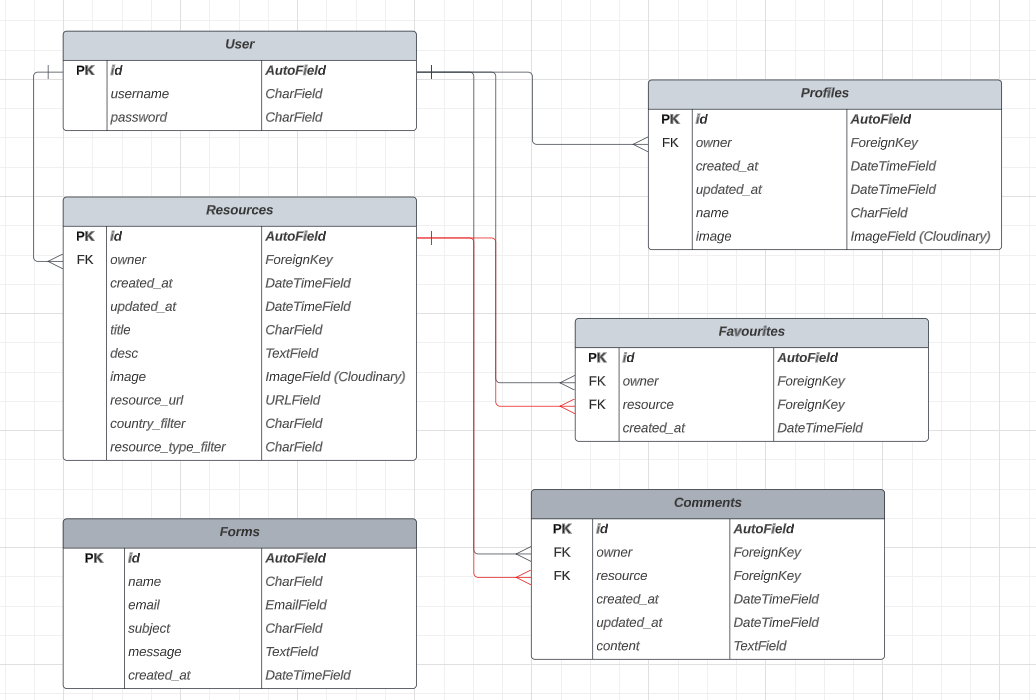
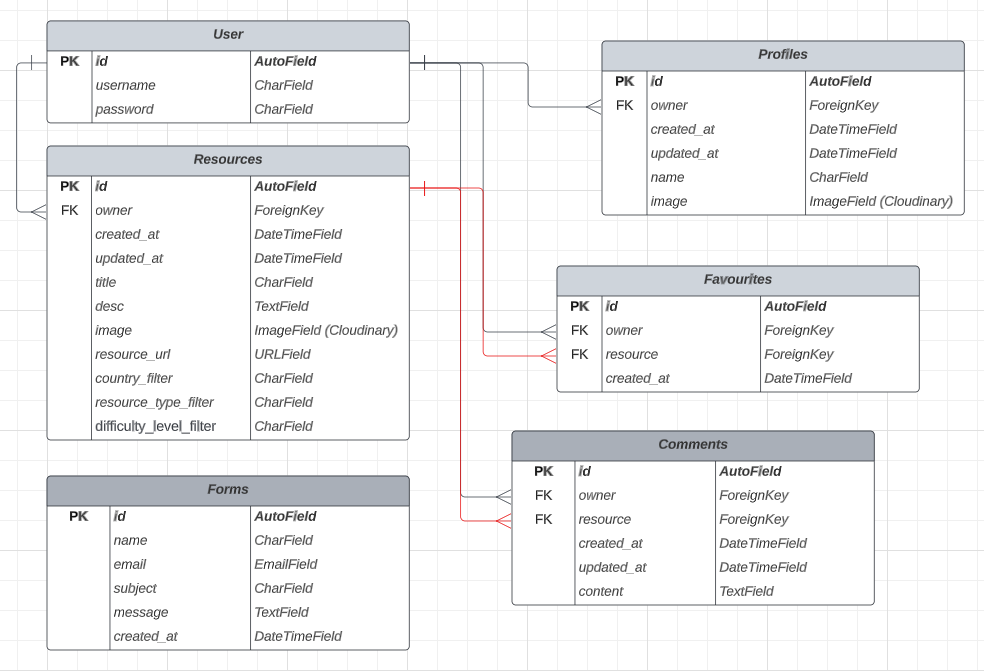
Add models to readme

diff --git a/README.md b/README.md
@@ -264,59 +264,200 @@ Feel free to delete any unused items below as necessary.
 Entity Relationship Diagrams (ERD) help to visualize database architecture before creating models.
 Understanding the relationships between different tables can save time later in the project.
 
-⚠⚠⚠⚠⚠ START OF NOTES (to be deleted) ⚠⚠⚠⚠⚠
+- [LucidChart](https://www.lucidchart.com/pages/) was used to create the Entity Relationship Diagram
 
-Using your defined models (one example below), create an ERD with the relationships identified.
-
-🛑🛑🛑🛑🛑 END OF NOTES (to be deleted) 🛑🛑🛑🛑🛑
+![screenshot](https://github.com/ogc1231/comprensible-spanish-api/blob/main/documentation/readme-assets/ERD.PNG)
 
 ```python
-class Product(models.Model):
-    category = models.ForeignKey(
-        "Category", null=True, blank=True, on_delete=models.SET_NULL)
-    sku = models.CharField(max_length=254, null=True, blank=True)
-    name = models.CharField(max_length=254)
-    description = models.TextField()
-    has_sizes = models.BooleanField(default=False, null=True, blank=True)
-    price = models.DecimalField(max_digits=6, decimal_places=2)
-    rating = models.DecimalField(
-        max_digits=6, decimal_places=2, null=True, blank=True)
-    image_url = models.URLField(max_length=1024, null=True, blank=True)
-    image = models.ImageField(null=True, blank=True)
+class Profile(models.Model):
+    owner = models.OneToOneField(User, on_delete=models.CASCADE)
+    created_at = models.DateTimeField(auto_now_add=True)
+    updated_at = models.DateTimeField(auto_now=True)
+    name = models.CharField(max_length=255, blank=True)
+    image = models.ImageField(
+        upload_to='images/', default='../default_profile_nhnsof'
+    )
+
+    class Meta:
+        ordering = ['-created_at']
 
     def __str__(self):
-        return self.name
+        return f"{self.owner}'s profile"
+
+
+def create_profile(sender, instance, created, **kwargs):
+    if created:
+        Profile.objects.create(owner=instance)
+
+
+post_save.connect(create_profile, sender=User)
 ```
 
-⚠⚠⚠⚠⚠ START OF NOTES (to be deleted) ⚠⚠⚠⚠⚠
+- **Profile**
 
-A couple recommendations for building free ERDs:
-- [Draw.io](https://draw.io)
-- [Lucidchart](https://www.lucidchart.com/pages/ER-diagram-symbols-and-meaning)
-
-🛑🛑🛑🛑🛑 END OF NOTES (to be deleted) 🛑🛑🛑🛑🛑
-
-![screenshot](documentation/erd.png)
-
-⚠⚠⚠⚠⚠ START OF NOTES (to be deleted) ⚠⚠⚠⚠⚠
-
-Using Markdown formatting to represent an example ERD table using the Product model above:
-
-🛑🛑🛑🛑🛑 END OF NOTES (to be deleted) 🛑🛑🛑🛑🛑
-
-- Table: **Product**
-
-    | **PK** | **id** (unique) | Type | Notes |
+    | **KEY** | **id** | Type |
     | --- | --- | --- | --- |
-    | **FK** | category | ForeignKey | FK to **Category** model |
-    | | sku | CharField | |
-    | | name | CharField | |
-    | | description | TextField | |
-    | | has_sizes | BooleanField | |
-    | | price | DecimalField | |
-    | | rating | DecimalField | |
-    | | image_url | URLField | |
-    | | image | ImageField | |
+	| **PK** | **id** | AutoField |
+    | **FK** | owner | ForeignKey |
+    | | created_at | DateTimeField |
+    | | updated_at | DateTimeField |
+    | | name | CharField |
+    | | image | ImageField (Cloudinary) |
+
+```python
+class Resource(models.Model):
+    country_filter_choices = [
+        ('mixed', 'Mixed'),
+        ('argentina', 'Argentina'),
+        ('bolivia', 'Bolivia'),
+        ('canary_islands', 'Canary Islands'),
+        ('chile', 'Chile'),
+        ('colombia', 'Colombia'),
+        ('costa_rica', 'Costa Rica'),
+        ('cuba', 'Cuba'),
+        ('dominican_republic', 'Dominican Republic'),
+        ('ecuador', 'Ecuador'),
+        ('el_salvador', 'El Salvador'),
+        ('equatorial_guinea', 'Equatorial Guinea'),
+        ('guatemala', 'Guatemala'),
+        ('honduras', 'Honduras'),
+        ('mexico', 'Mexico'),
+        ('nicaragua', 'Nicaragua'),
+        ('panama', 'Panama'),
+        ('paraguay', 'Paraguay'),
+        ('puerto_rico', 'Puerto Rico'),
+        ('peru', 'Peru'),
+        ('spain', 'Spain'),
+        ('uruguay', 'Uruguay'),
+        ('venezuela', 'Venezuela'),
+    ]
+
+    resource_type_filter_choices = [
+        ('podcast', 'Podcast/Audio'),
+        ('youtube', 'YouTube/Video'),
+    ]
+
+    difficulty_level_filter_choices = [
+        ('beginner', 'Beginner'),
+        ('intermediate', 'Intermediate'),
+        ('advanced', 'Advanced'),
+        ('easy_native', 'Easy Native'),
+        ('adv_native', 'Adv Native'),
+    ]
+
+    owner = models.ForeignKey(User, on_delete=models.PROTECT)
+    created_at = models.DateTimeField(auto_now_add=True)
+    updated_at = models.DateTimeField(auto_now=True)
+    title = models.CharField(max_length=255)
+    desc = models.TextField(blank=True)
+    image = models.ImageField(
+        upload_to='images/', default='../default_post_ve6bmd', blank=True
+    )
+    resource_url = models.URLField(max_length=255, unique=True)
+    country_filter = models.CharField(
+        max_length=32, choices=country_filter_choices
+    )
+    resource_type_filter = models.CharField(
+        max_length=32, choices=resource_type_filter_choices,
+    )
+    difficulty_level_filter = models.CharField(
+        max_length=32, choices=difficulty_level_filter_choices
+    )
+
+    class Meta:
+        ordering = ['-created_at']
+
+    def __str__(self):
+```
+
+- **Resource**
+
+    | **KEY** | **id** | Type |
+    | --- | --- | --- | --- |
+	| **PK** | **id** | AutoField |
+    | **FK** | owner | ForeignKey |
+    | | created_at | DateTimeField |
+    | | updated_at | DateTimeField |
+    | | title | CharField |
+	| | desc | TextField |
+    | | image | ImageField (Cloudinary) |
+	| | resource_url | URLField |
+	| | country_filter | CharField |
+	| | resource_type_filter | CharField |
+	| | difficulty_level_filter | CharField |
+
+```python
+class Favourite(models.Model):
+    owner = models.ForeignKey(User, on_delete=models.CASCADE)
+    resource = models.ForeignKey(
+        Resource, related_name='favourites', on_delete=models.CASCADE
+    )
+    created_at = models.DateTimeField(auto_now_add=True)
+
+    class Meta:
+        ordering = ['-created_at']
+        unique_together = ['owner', 'resource']
+
+    def __str__(self):
+        return f'{self.owner} {self.resource}'
+```
+
+- **Favourite**
+
+    | **KEY** | **id** | Type |
+    | --- | --- | --- | --- |
+	| **PK** | **id** | AutoField |
+    | **FK** | owner | ForeignKey |
+    | | created_at | DateTimeField |
+
+```python
+class Comment(models.Model):
+    owner = models.ForeignKey(User, on_delete=models.CASCADE)
+    resource = models.ForeignKey(Resource, on_delete=models.CASCADE)
+    created_at = models.DateTimeField(auto_now_add=True)
+    updated_at = models.DateTimeField(auto_now=True)
+    content = models.TextField()
+
+    class Meta:
+        ordering = ['-created_at']
+
+    def __str__(self):
+        return self.content
+```
+
+- **Comment**
+
+    | **KEY** | **id** | Type |
+    | --- | --- | --- | --- |
+	| **PK** | **id** | AutoField |
+    | **FK** | owner | ForeignKey |
+	| **FK** | resource | ForeignKey |
+    | | created_at | DateTimeField |
+    | | updated_at | DateTimeField |
+	| | content | TextField |
+
+```python
+class ContactForm(models.Model):
+    name = models.CharField(max_length=50)
+    email = models.EmailField()
+    subject = models.CharField(max_length=50, blank=True)
+    message = models.TextField()
+    created_at = models.DateTimeField(auto_now_add=True)
+
+    def __str__(self):
+        return f'{self.name}'
+```
+
+- **ContactForm**
+
+    | **KEY** | **id** | Type |
+    | --- | --- | --- | --- |
+	| **PK** | **id** | AutoField |
+    | | name | CharField |
+	| | email | EmailField |
+	| | subject | CharField |
+	| | message | TextField |
+    | | created_at | DateTimeField |
 
 ## Agile Development Process
 
